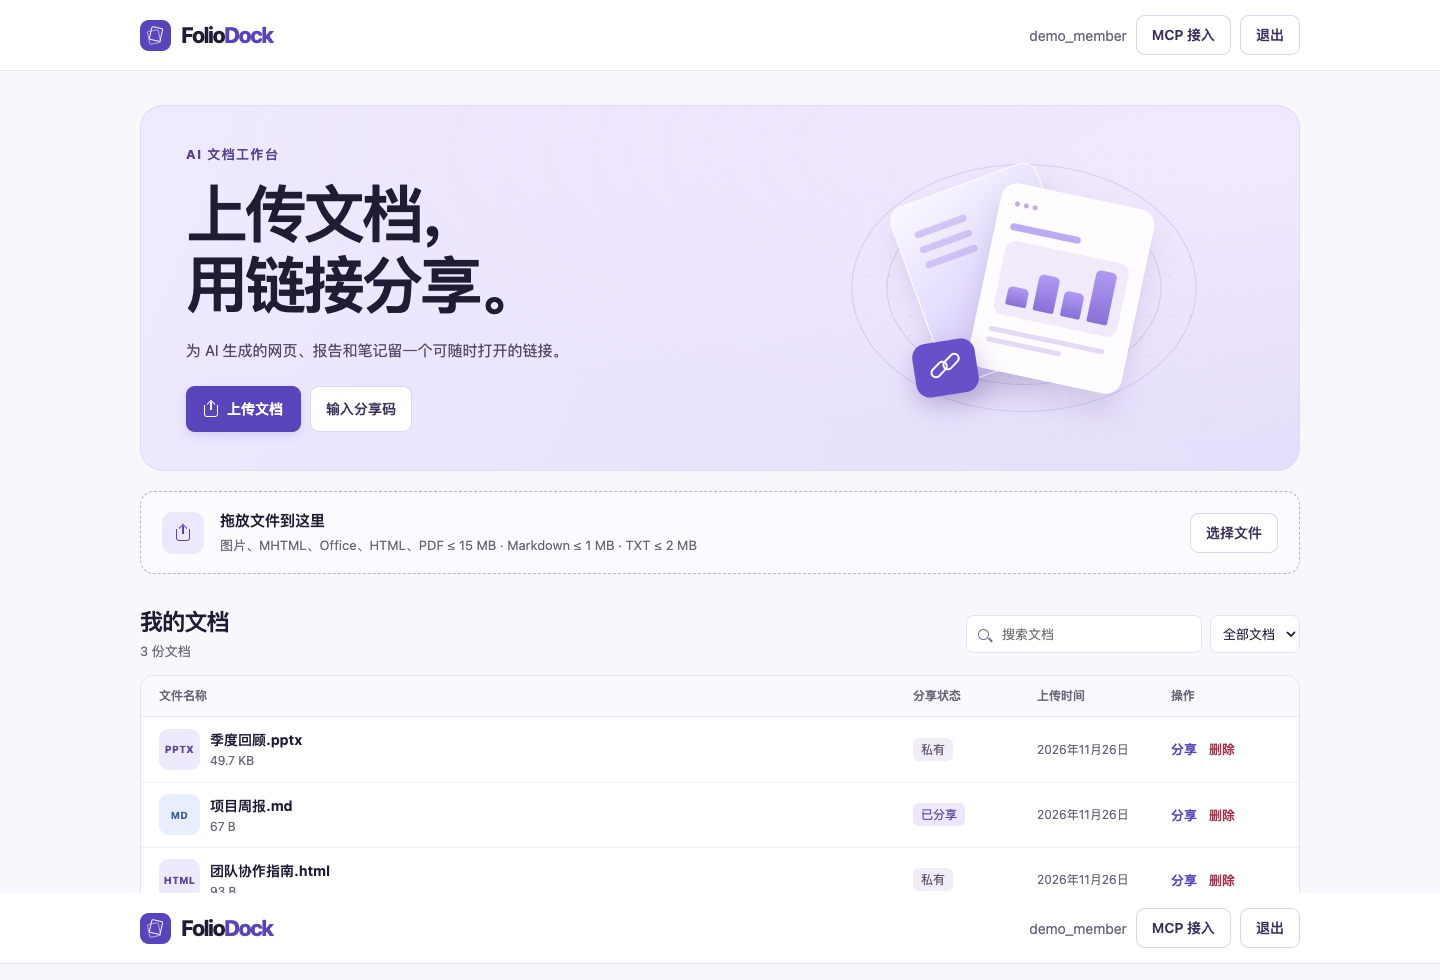
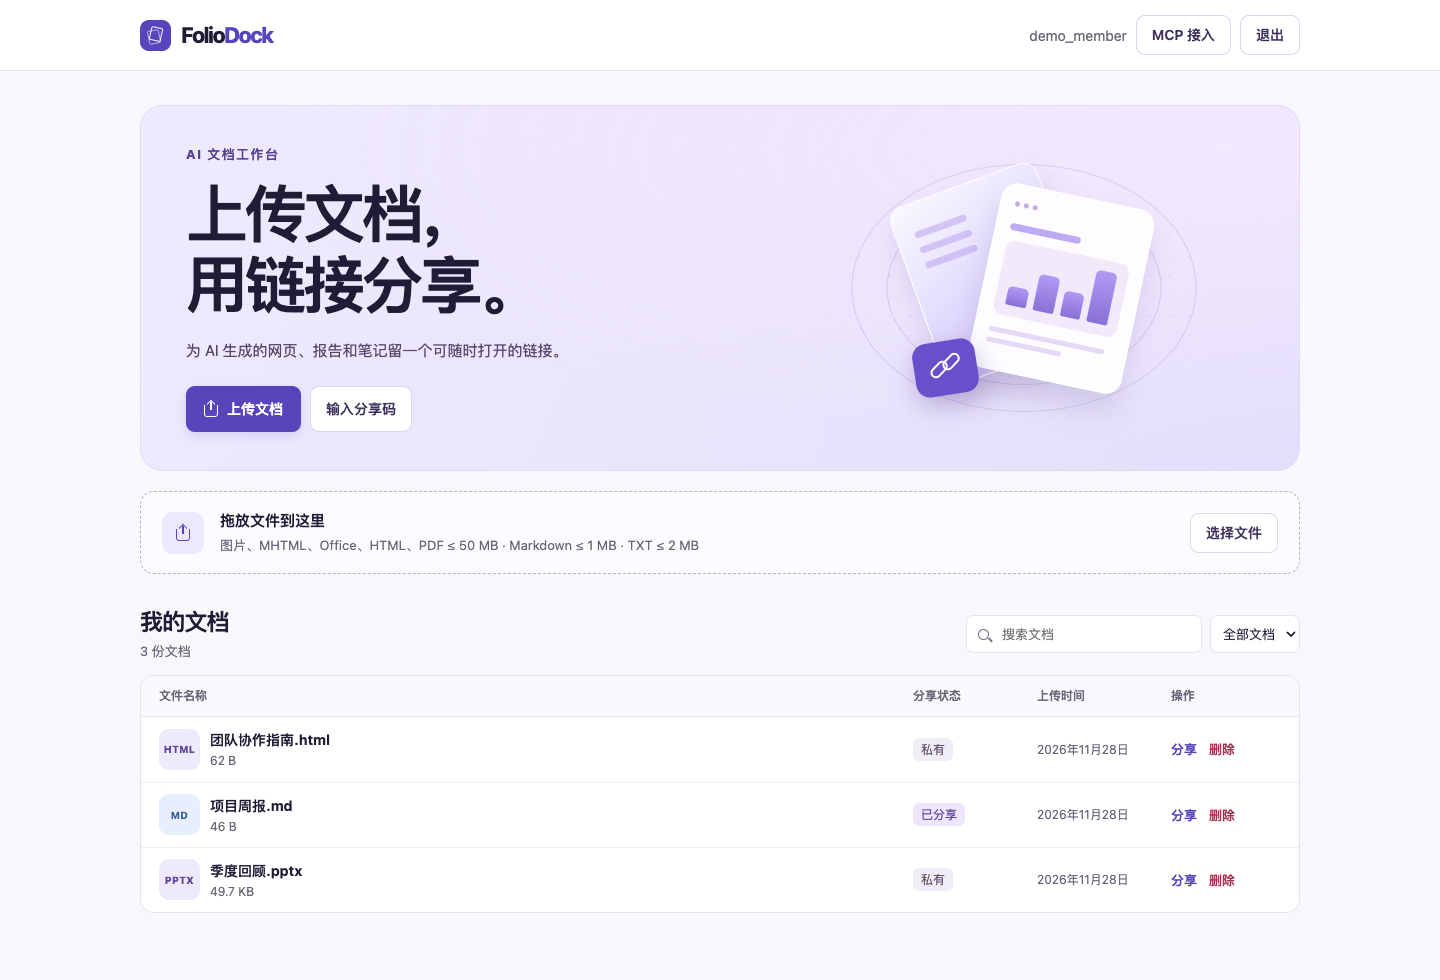
Stream web uploads to R2 with a 50 MiB limit

diff --git a/src/index.js b/src/index.js
@@ -1,6 +1,8 @@
 import MarkdownIt from 'markdown-it';
 import { handleMcp, maxMcpBody } from './mcp.js';
-import { formats, formatAliases, validSignature } from './formats.js';
+import { formats, formatAliases } from './formats.js';
+import { HttpError } from './http-error.js';
+import { streamUpload, uploadLength, validateUploadSignature } from './uploads.js';
 import { formatShareCode, normalizeShareCode } from '../public/share-code.js';
 
 const encoder = new TextEncoder();
@@ -45,13 +47,6 @@ const officeLayoutCsp = [
 ].join('; ');
 const markdownStyle = 'html{color-scheme:light}body{font:16px/1.72 system-ui,sans-serif;color:#29263a;margin:0;padding:clamp(20px,5vw,56px);overflow-wrap:anywhere}main{max-width:760px;margin:auto}h1,h2,h3{line-height:1.25;margin:1.4em 0 .55em}main>:first-child{margin-top:0}a{color:#5240a3}pre,code{background:#f1eef9;border-radius:5px}code{padding:.12em .35em}pre{padding:16px;overflow:auto}pre code{padding:0}blockquote{border-left:3px solid #b7a9f1;margin-left:0;padding-left:16px;color:#5d5670}img{max-width:100%}table{border-collapse:collapse;display:block;overflow:auto}th,td{border:1px solid #dfd9ee;padding:7px 12px}';
 const now = () => Math.floor(Date.now() / 1000);
-
-class HttpError extends Error {
-  constructor(status, message) {
-    super(message);
-    this.status = status;
-  }
-}
 
 function json(body, status = 200, extraHeaders = {}) {
   return Response.json(body, {
@@ -262,18 +257,35 @@ async function cleanupIncomplete(env, owner = null) {
   return purgeDocuments(env, results.map(({ id }) => id));
 }
 
-async function upload(request, env, owner) {
+async function upload(request, env, owner, ctx) {
   const name = cleanFilename(readFilename(request.headers.get('X-Folio-Filename')));
   const format = getFormat(name);
-  const bytes = await readBody(request, formats[format].max);
-  return json({ document: await storeDocument(env, owner, name, format, bytes, false) }, 201);
+  const length = uploadLength(request, format);
+  const stored = storeFile(env, owner, name, format, length ?? 1,
+    id => streamUpload(env.FILES, id, request.body, format, length));
+  // Let cleanup finish when the client disconnects during an upload.
+  ctx.waitUntil(stored.catch(() => {}));
+  return json({ document: await stored }, 201);
 }
 
 async function storeDocument(env, owner, name, format, bytes, shared, settings = {}) {
   if (!bytes.byteLength) throw new HttpError(400, '文件为空。');
   if (bytes.byteLength > formats[format].max) throw new HttpError(413, '文件超出大小限制。');
-  if (!validSignature(format, bytes)) throw new HttpError(400, '文件内容与 .' + format + ' 格式不符。');
+  validateUploadSignature(format, bytes);
+  return storeFile(env, owner, name, format, bytes.length,
+    async id => (await env.FILES.put(id, bytes)).size, shared, settings);
+}
 
+async function requireActiveOwner(env, owner) {
+  const active = await env.DB.prepare("SELECT id FROM users WHERE id = ? AND status = 'active'").bind(owner).first();
+  if (!active) throw new HttpError(403, '此账号已暂停使用。');
+}
+
+function storageLimit() {
+  return new HttpError(409, '已达到 100 份文档或 150 MB 的空间上限。');
+}
+
+async function storeFile(env, owner, name, format, reservedSize, writeObject, shared = false, settings = {}) {
   const policy = shared ? await readSharePolicy(settings, env) : {};
   await cleanupIncomplete(env, owner);
   const id = randomHex(16);
@@ -283,35 +295,39 @@ async function storeDocument(env, owner, name, format, bytes, shared, settings =
     "SELECT ?, ?, ?, ?, ?, ?, 'pending' FROM (" +
     'SELECT COUNT(*) AS document_count, COALESCE(SUM(size), 0) AS total_size FROM documents WHERE owner_id = ?' +
     ") WHERE document_count < ? AND total_size + ? <= ? AND EXISTS (SELECT 1 FROM users WHERE id = ? AND status = 'active')",
-  ).bind(id, owner, name, format, bytes.length, time, owner, maxDocuments, bytes.length, maxStorage, owner).run();
+  ).bind(id, owner, name, format, reservedSize, time, owner, maxDocuments, reservedSize, maxStorage, owner).run();
   if (!reservation.meta.changes) {
-    const active = await env.DB.prepare("SELECT id FROM users WHERE id = ? AND status = 'active'").bind(owner).first();
-    if (!active) throw new HttpError(403, '此账号已暂停使用。');
-    throw new HttpError(409, '已达到 100 份文档或 150 MB 的空间上限。');
+    await requireActiveOwner(env, owner);
+    throw storageLimit();
   }
 
   const discardUpload = async () => {
-    const result = await env.DB.prepare("UPDATE documents SET state = 'deleting' WHERE id = ? AND state = 'pending'")
-      .bind(id).run();
-    if (result.meta.changes) await purgeDocuments(env, [id]);
+    await env.DB.prepare("UPDATE documents SET state = 'deleting' WHERE id = ? AND state = 'pending'").bind(id).run();
+    await purgeDocuments(env, [id]);
   };
 
+  let size;
   try {
-    await env.FILES.put(id, bytes);
+    size = await writeObject(id);
   } catch (error) {
     await discardUpload().catch(() => {});
     throw error;
   }
-  const document = await env.DB.prepare(
-    "UPDATE documents SET state = 'ready', share_token = ?, share_expires_at = ?, share_password_salt = ?, " +
-    "share_password_hash = ? WHERE id = ? AND owner_id = ? AND state = 'pending' AND " + activeDocumentOwner + " RETURNING " +
-    documentFields + ', ' + ownerShareFields,
-  ).bind(shared ? randomHex(24) : null, policy.expiresAt ?? null, policy.salt ?? null, policy.verifier ?? null, id, owner).first();
-  if (!document) {
+  // Chunked requests reserve a slot first and check the exact size at publication.
+  const uploaded = await env.DB.prepare(
+    "UPDATE documents SET state = 'ready', size = ?, share_token = ?, share_expires_at = ?, share_password_salt = ?, " +
+    "share_password_hash = ? WHERE id = ? AND owner_id = ? AND state = 'pending' AND " + activeDocumentOwner +
+    ' AND (size = ? OR ? + (SELECT COALESCE(SUM(other.size), 0) FROM documents AS other WHERE other.owner_id = documents.owner_id AND other.id != documents.id) <= ?)' +
+    ' RETURNING ' + documentFields + ', ' + ownerShareFields,
+  ).bind(size, shared ? randomHex(24) : null, policy.expiresAt ?? null, policy.salt ?? null, policy.verifier ?? null,
+    id, owner, size, size, maxStorage).first();
+  if (!uploaded) {
     await discardUpload();
-    throw new HttpError(403, '此账号已暂停使用，上传已取消。');
+    await requireActiveOwner(env, owner);
+    if (size !== reservedSize) throw storageLimit();
+    throw new HttpError(409, '上传已取消，请重试。');
   }
-  return document;
+  return uploaded;
 }
 
 async function deleteDocument(env, owner, id) {
@@ -742,7 +758,7 @@ async function contents(env, document, download) {
   });
 }
 
-async function api(request, env, url) {
+async function api(request, env, url, ctx) {
   const { pathname } = url;
   const method = request.method;
   if (method !== 'GET' && (
@@ -785,7 +801,7 @@ async function api(request, env, url) {
   if (pathname.startsWith('/api/admin/')) return admin(request, env, url, user);
   if (pathname === '/api/documents') {
     if (method === 'GET') return json({ documents: await listDocuments(env, user.id) });
-    if (method === 'POST') return upload(request, env, user.id);
+    if (method === 'POST') return upload(request, env, user.id, ctx);
   }
 
   const owned = pathname.match(/^\/api\/documents\/([a-f0-9]{32})(?:\/(preview|download|share))?$/);
@@ -808,10 +824,10 @@ async function api(request, env, url) {
 }
 
 export default {
-  async fetch(request, env) {
+  async fetch(request, env, ctx) {
     const url = new URL(request.url);
     try {
-      if (url.pathname.startsWith('/api/')) return await api(request, env, url);
+      if (url.pathname.startsWith('/api/')) return await api(request, env, url, ctx);
       if (url.pathname === '/mcp' || url.pathname === '/mcp/') return await mcp(request, env, url);
       if (request.method !== 'GET' && request.method !== 'HEAD') throw new HttpError(405, '此请求方式不可用。');
       const layout = url.pathname.match(/^\/office-layout\/(docx|pptx)$/);

diff --git a/src/uploads.js b/src/uploads.js
@@ -1,0 +1,124 @@
+import { formats, validSignature } from './formats.js';
+import { HttpError } from './http-error.js';
+
+const signatureBytes = 4096;
+const partSize = 5 * 1024 * 1024;
+
+export function uploadLength(request, format) {
+  if (!request.body) throw new HttpError(400, '文件为空。');
+  const header = request.headers.get('Content-Length');
+  if (header === null) return null;
+  const length = Number(header);
+  if (!/^\d+$/.test(header) || !Number.isSafeInteger(length)) throw new HttpError(400, '上传长度无效。');
+  if (!length) throw new HttpError(400, '文件为空。');
+  if (length > formats[format].max) throw new HttpError(413, '文件超出大小限制。');
+  return length;
+}
+
+export function validateUploadSignature(format, bytes) {
+  if (!validSignature(format, bytes)) throw new HttpError(400, '文件内容与 .' + format + ' 格式不符。');
+}
+
+async function* checkedChunks(body, format, length) {
+  const reader = body.getReader();
+  const prefix = new Uint8Array(signatureBytes);
+  const max = formats[format].max;
+  let prefixLength = 0;
+  let size = 0;
+  let checked = false;
+  let finished = false;
+  try {
+    while (true) {
+      let chunk;
+      let done;
+      try {
+        ({ value: chunk, done } = await reader.read());
+      } catch {
+        throw new HttpError(400, '上传连接已中断。');
+      }
+      if (done) {
+        finished = true;
+        break;
+      }
+      size += chunk.byteLength;
+      if (size > max) throw new HttpError(413, '文件超出大小限制。');
+      if (length !== null && size > length) throw new HttpError(400, '上传长度与文件内容不符。');
+
+      if (!checked) {
+        const copied = Math.min(signatureBytes - prefixLength, chunk.byteLength);
+        prefix.set(chunk.subarray(0, copied), prefixLength);
+        prefixLength += copied;
+        if (prefixLength < signatureBytes) continue;
+        validateUploadSignature(format, prefix);
+        checked = true;
+        yield prefix;
+        chunk = chunk.subarray(copied);
+      }
+      if (chunk.byteLength) yield chunk;
+    }
+    if (!size) throw new HttpError(400, '文件为空。');
+    if (length !== null && size !== length) throw new HttpError(400, '上传长度与文件内容不符。');
+    if (!checked) {
+      const bytes = prefix.subarray(0, prefixLength);
+      validateUploadSignature(format, bytes);
+      yield bytes;
+    }
+  } finally {
+    if (!finished) await reader.cancel().catch(() => {});
+    reader.releaseLock();
+  }
+}
+
+async function putFixedLength(bucket, id, chunks, length) {
+  const { readable, writable } = new FixedLengthStream(length);
+  const abort = new AbortController();
+  const piping = ReadableStream.from(chunks).pipeTo(writable, { signal: abort.signal });
+  const writing = bucket.put(id, readable).catch(error => {
+    abort.abort(error);
+    throw error;
+  });
+  // Wait for both ends to stop before the caller can remove a failed upload.
+  const [piped, stored] = await Promise.allSettled([piping, writing]);
+  if (piped.status === 'rejected') throw piped.reason;
+  if (stored.status === 'rejected') throw stored.reason;
+  return stored.value;
+}
+
+async function putUnknownLength(bucket, id, chunks, max) {
+  // R2 requires known lengths per write. Use one bounded buffer for chunked requests.
+  const buffer = new Uint8Array(Math.min(partSize, max));
+  let used = 0;
+  let multipart;
+  const parts = [];
+  try {
+    for await (const chunk of chunks) {
+      let offset = 0;
+      while (offset < chunk.byteLength) {
+        if (used === buffer.length) {
+          multipart ??= await bucket.createMultipartUpload(id);
+          parts.push(await multipart.uploadPart(parts.length + 1, buffer));
+          used = 0;
+        }
+        const copied = Math.min(buffer.length - used, chunk.byteLength - offset);
+        buffer.set(chunk.subarray(offset, offset + copied), used);
+        used += copied;
+        offset += copied;
+      }
+    }
+    const last = buffer.subarray(0, used);
+    if (!multipart) return await bucket.put(id, last);
+    parts.push(await multipart.uploadPart(parts.length + 1, last));
+    return await multipart.complete(parts);
+  } catch (error) {
+    if (multipart) await multipart.abort().catch(() => {});
+    throw error;
+  }
+}
+
+export async function streamUpload(bucket, id, body, format, length) {
+  const chunks = checkedChunks(body, format, length);
+  const object = length === null
+    ? await putUnknownLength(bucket, id, chunks, formats[format].max)
+    : await putFixedLength(bucket, id, chunks, length);
+  return object.size;
+}

diff --git a/public/index.html b/public/index.html
@@ -46,7 +46,7 @@
       <span class="drop-icon" aria-hidden="true"><span class="icon-upload"></span></span>
       <div class="drop-text">
         <h2>拖放文件到这里</h2>
-        <p>图片、MHTML、Office、HTML、PDF ≤ 15 MB · Markdown ≤ 1 MB · TXT ≤ 2 MB</p>
+        <p>图片、MHTML、Office、HTML、PDF ≤ 50 MB · Markdown ≤ 1 MB · TXT ≤ 2 MB</p>
       </div>
       <button id="pick-files" class="button button-outline" type="button" disabled>选择文件</button>
       <input id="file-input" type="file" accept=".html,.htm,.md,.markdown,.pdf,.txt,.png,.jpg,.jpeg,.gif,.webp,.avif,.bmp,.svg,.mhtml,.mht,.xlsx,.xls,.docx,.doc,.pptx,.ppt" multiple hidden>

diff --git a/src/formats.js b/src/formats.js
@@ -1,5 +1,5 @@
 const MiB = 1024 * 1024;
-const max = 15 * MiB;
+const max = 50 * MiB;
 const richOffice = { max, binary: true, preview: 'rich' };
 const oldOffice = { max, binary: true, preview: 'download' };
 

diff --git a/src/http-error.js b/src/http-error.js
@@ -1,0 +1,6 @@
+export class HttpError extends Error {
+  constructor(status, message) {
+    super(message);
+    this.status = status;
+  }
+}

diff --git a/README.md b/README.md
@@ -19,7 +19,7 @@ Folio Dock 是一款可自建的文档上传、在线预览和分享工具。它
 
 可在线查看的文件支持「全屏预览」，包括免登录分享页。浏览器无法进入系统全屏时，预览会铺满当前页面。
 
-网页版单文件上限为 15 MB，Markdown 为 1 MB，TXT 为 2 MB。每个账号最多存放 100 份文件，合计 150 MB。MCP 单文件上限为 4 MB，并遵循各格式上限。
+网页版流式写入 R2，单文件上限为 50 MB，Markdown 为 1 MB，TXT 为 2 MB。每个账号最多存放 100 份文件，合计 150 MB。MCP 单文件上限为 4 MB，并遵循各格式上限。
 
 ## 本地运行
 
